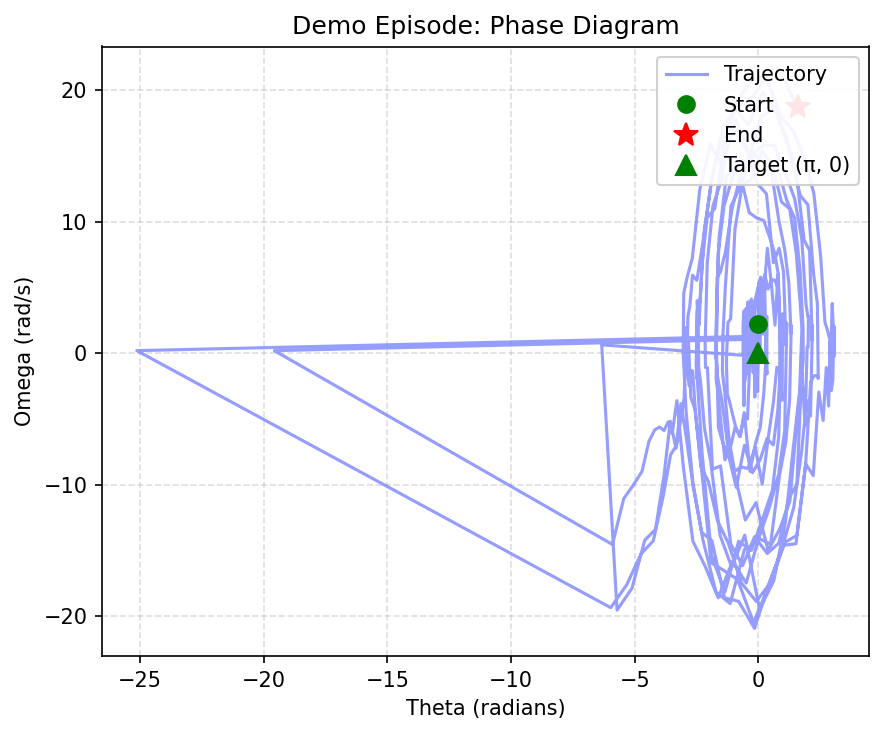
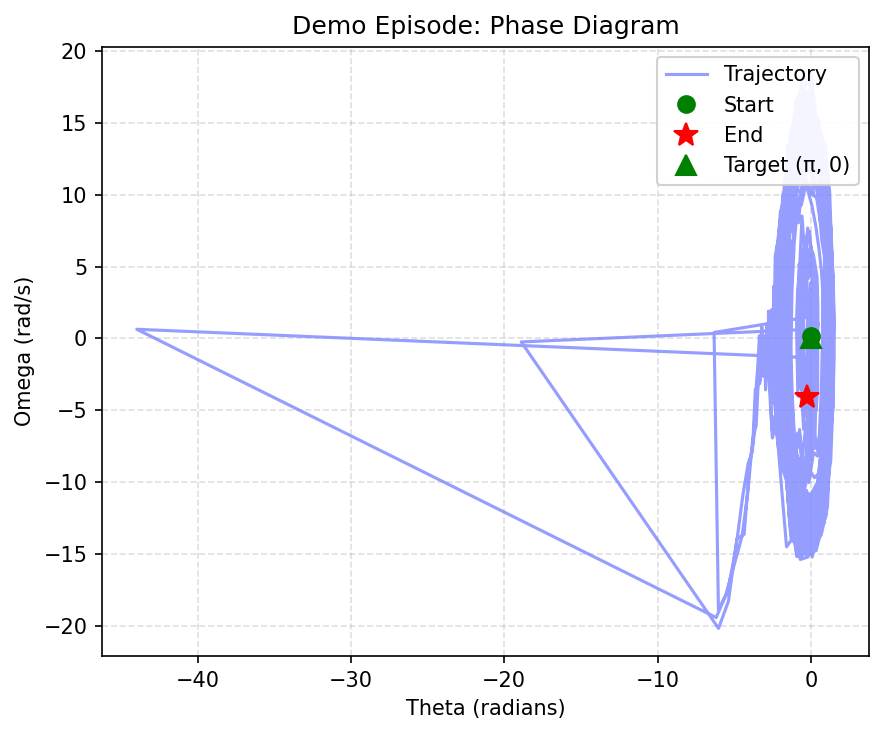
exp

diff --git a/src/swingup/q_learning/UnbalancedDiskExp.py b/src/swingup/q_learning/UnbalancedDiskExp.py
@@ -45,8 +45,9 @@ class UnbalancedDisk_exp(gym.Env):
         ### Gym things
         self.num_actions = 7
         self.action_space = spaces.Discrete(self.num_actions)
-        self.discrete_action_map  = [-3, -1.8,  -0.5 ,  0,  0.5, 1.8,  3]
-
+        # self.discrete_action_map  = [-3, -1.8,  -0.5 ,  0,  0.5, 1.8,  3]
+        self.discrete_action_map  = [-3,  -2, -1,  -0.5 , -0.2, 0,  0.2, 0.5, 1, 2, 3] 
+        
         low = [-2*np.pi, -5] 
         high = [2*np.pi, 5]
         self.observation_space = spaces.Box(low=np.array(low, dtype=np.float32), high=np.array(high, dtype=np.float32), shape=(2,))

diff --git a/src/swingup/q_learning/runExp.py b/src/swingup/q_learning/runExp.py
@@ -60,8 +60,8 @@ ENV_CLS = UnbalancedDisk_exp
 ENV_KWARGS = dict(umax=3.0, dt=0.025)
 
 # Zorg dat dit de naam is van je daadwerkelijk getrainde pickle model
-checkpoint_filename = "Q_learning_2_neww_reward_v15.pkl" 
-n_steps = 500  # Aantal stappen voor de evaluatie/demo
+checkpoint_filename = "Q_learning_2_neww_reward_v16.pkl" 
+n_steps = 1500  # Aantal stappen voor de evaluatie/demo
 
 if __name__ == "__main__":
     # 1. Maak de base environment